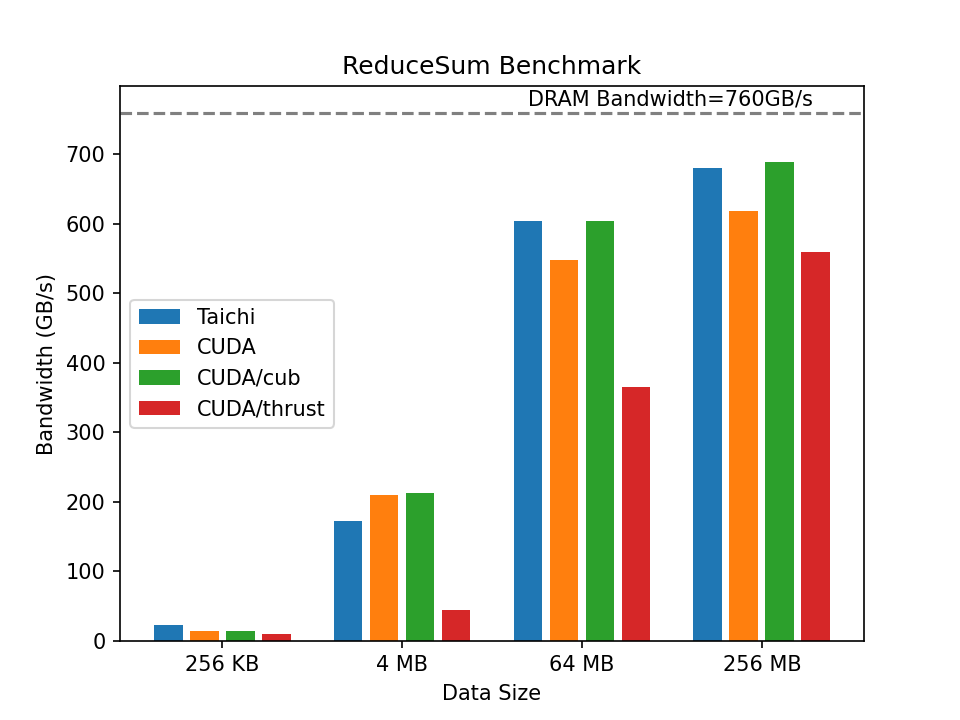
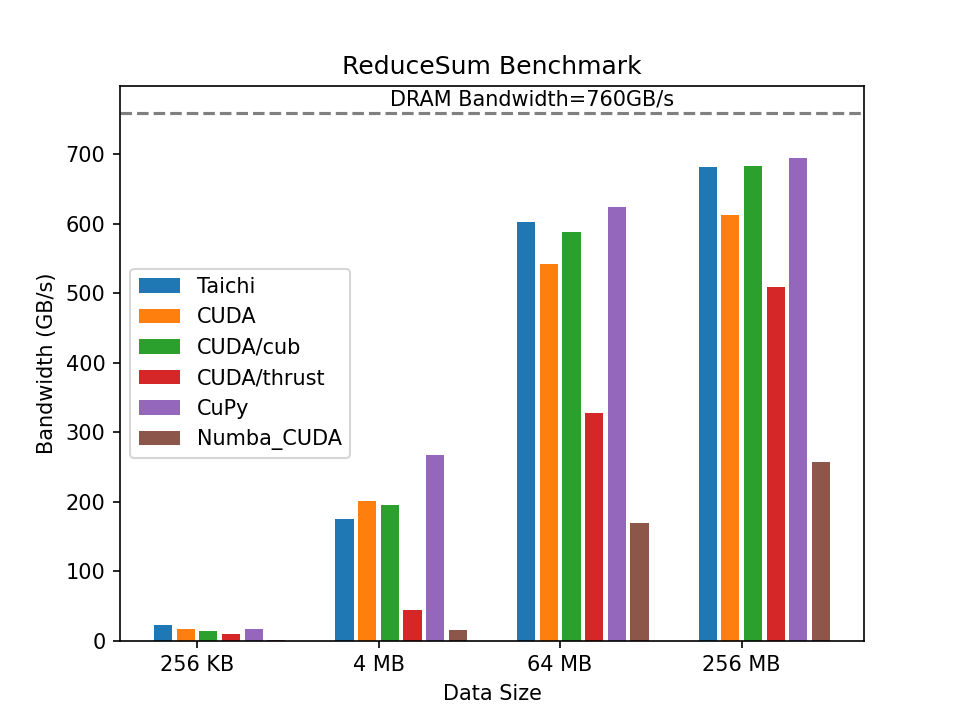
Update numba CUDA code

diff --git a/reduce_sum/plot_benchmark_nb.py b/reduce_sum/plot_benchmark_nb.py
@@ -6,7 +6,7 @@ from src.numba.benchmark import benchmark as benchmark_numba
 from src.numpy.benchmark import benchmark as benchmark_numpy
 from src.cupy.benchmark import benchmark as benchmark_cupy
 from src.numba_cuda.benchmark import benchmark as benchmark_numba_cuda
-### 
+###
 import sys
 import os
 
@@ -14,19 +14,15 @@ scale = [65536, 1048576, 16777216, 67108864]
 
 def run_benchmarks():
     results = benchmark_cuda(scale)
-    
+
     taichi_results = benchmark_taichi(scale)
-    numba_results  = benchmark_numba(scale)
-    numpy_results  = benchmark_numpy(scale)
     cupy_results  = benchmark_cupy(scale)
-    numba_cuda_results  = benchmark_numba_cuda(scale)        
-    
+    numba_cuda_results  = benchmark_numba_cuda(scale)
+
     results['taichi'] = taichi_results['taichi']
-    results['numba'] = numba_results['numba']
-    results['numpy'] = numpy_results['numpy']
     results['cupy'] = cupy_results['cupy']
-    results['numba_cuda'] = numba_cuda_results['numba_cuda']        
-    
+    results['numba_cuda'] = numba_cuda_results['numba_cuda']
+
     return results
 
 def get_bandwidth(ts):
@@ -39,8 +35,8 @@ def plot_compute(results, machine="3080"):
     xlabel = ["256 KB","4 MB","64 MB", "256 MB"]
     fig, ax = plt.subplots()
 
-    bar_step = 10
-    
+    bar_step = 8
+
     taichi_bandwidth = get_bandwidth(results['taichi'])
     bar_pos = [i*bar_step+1 for i in range(len(taichi_bandwidth))]
     ax.bar(bar_pos, taichi_bandwidth)
@@ -55,29 +51,21 @@ def plot_compute(results, machine="3080"):
     cub_bandwidth = get_bandwidth(results['cub'])
     bar_pos = [i*bar_step+3 for i in range(len(cub_bandwidth))]
     ax.bar(bar_pos, cub_bandwidth)
-    
+
     thrust_bandwidth = get_bandwidth(results['thrust'])
     bar_pos = [i*bar_step+4 for i in range(len(thrust_bandwidth))]
     ax.bar(bar_pos, thrust_bandwidth)
 
-    numba_bandwidth = get_bandwidth(results['numba'])
-    bar_pos = [i*bar_step+5 for i in range(len(numba_bandwidth))]
-    ax.bar(bar_pos, numba_bandwidth)
-    
-    numpy_bandwidth = get_bandwidth(results['numpy'])
-    bar_pos = [i*bar_step+6 for i in range(len(numpy_bandwidth))]
-    ax.bar(bar_pos, numpy_bandwidth)
-
     cupy_bandwidth = get_bandwidth(results['cupy'])
-    bar_pos = [i*bar_step+7 for i in range(len(cupy_bandwidth))]
+    bar_pos = [i*bar_step+5 for i in range(len(cupy_bandwidth))]
     ax.bar(bar_pos, cupy_bandwidth)
 
     numba_cuda_bandwidth = get_bandwidth(results['numba_cuda'])
-    bar_pos = [i*bar_step+8 for i in range(len(numba_cuda_bandwidth))]
+    bar_pos = [i*bar_step+6 for i in range(len(numba_cuda_bandwidth))]
     ax.bar(bar_pos, numba_cuda_bandwidth)
-    
 
-    ax.legend(['Taichi','CUDA', 'CUDA/cub', 'CUDA/thrust', 'Numba', 'Numpy', 'CuPy', 'Numba_CUDA'])
+
+    ax.legend(['Taichi','CUDA', 'CUDA/cub', 'CUDA/thrust', 'CuPy', 'Numba_CUDA'])
     ax.set_xlabel("Data Size")
     ax.set_ylabel("Bandwidth (GB/s)")
     if machine == "2060":

diff --git a/reduce_sum/src/numba_cuda/reduce_sum.py b/reduce_sum/src/numba_cuda/reduce_sum.py
@@ -4,17 +4,18 @@ import time
 
 def reduce_sum(n_items, repeats=5):
     f = np.ones(shape=(n_items,), dtype=np.float32)
-    
+    f_d = cuda.to_device(f)
+
     @cuda.reduce
     def reduce(a, b):
         return a + b
-    
-    reduce(f) # Skip first run
-    
-    n_iter = 0    
+
+    reduce(f_d) # Skip first run
+
+    n_iter = 0
     start = time.perf_counter()
     sum = 0.0
-    while n_iter < repeats:    
-        sum = reduce(f)
+    while n_iter < repeats:
+        sum = reduce(f_d)
         n_iter += 1
     return (time.perf_counter() - start)*1000 / repeats

diff --git a/saxpy/src/taichi/saxpy.py b/saxpy/src/taichi/saxpy.py
@@ -45,6 +45,6 @@ def saxpy(N, len_coeff):
 
 if __name__ == '__main__':
     for i in [256, 512, 1024, 2048, 4096]:
-        for j in range(5):
+        for j in range(16):
             rd = saxpy(i, 2**(j))
             print("{}x{}@{}, {:.3f}ms, {:.3f} GFLOPS, {:.3f} GB/s".format(rd["N"], rd["N"], rd["fold"], rd["time"], rd["gflops"], rd["gbs"]))
